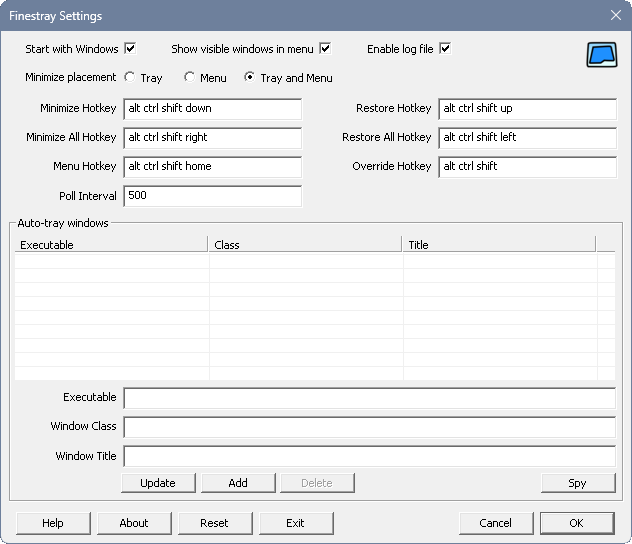
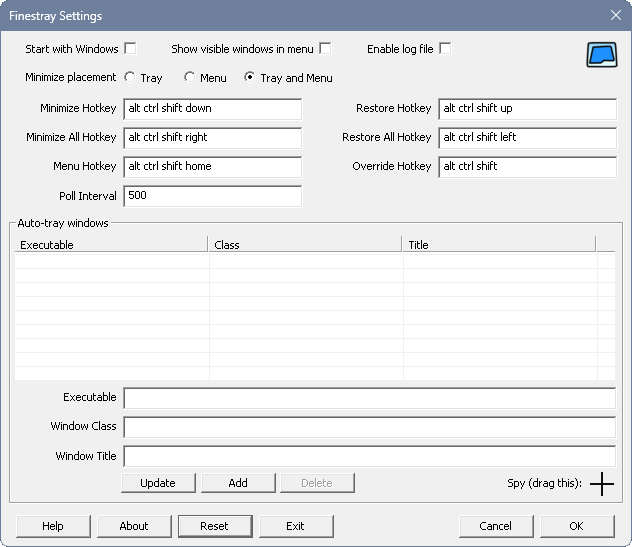
Improve method for spy window selection

diff --git a/src/SettingsDialog.cpp b/src/SettingsDialog.cpp
@@ -57,12 +57,14 @@ int autoTrayListViewCompare(LPARAM, LPARAM, LPARAM);
 void autoTrayListViewItemAdd(HWND dialogHwnd);
 void autoTrayListViewItemUpdate(HWND dialogHwnd, int item);
 void autoTrayListViewItemDelete(HWND dialogHwnd, int item);
-void autoTrayListViewItemSpy(HWND dialogHwnd);
 void autoTrayListViewItemEdit(HWND dialogHwnd, int item);
 void autoTrayListViewUpdateButtons(HWND dialogHwnd);
 void autoTrayListViewUpdateSelected(HWND dialogHwnd);
-void spySelectWindowAtPoint(const POINT & point);
-LRESULT CALLBACK MouseProc(int nCode, WPARAM wParam, LPARAM lParam);
+void spyBegin(HWND dialogHwnd);
+void spyEnd(HWND dialogHwnd);
+void spyEnableIcon(HWND dialogHwnd);
+void spyDisableIcon(HWND dialogHwnd);
+void spyUpdate(HWND dialogHwnd);
 std::string getDialogItemText(HWND dialogHwnd, int id);
 std::string getListViewItemText(HWND listViewHwnd, int item, int subItem);
 
@@ -75,8 +77,6 @@ bool autoTrayListViewSortAscending_;
 int autoTrayListViewSortColumn_;
 #endif
 bool spyMode_;
-HWND spyModeHwnd_;
-HHOOK mouseHhook_;
 
 } // anonymous namespace
 
@@ -110,12 +110,29 @@ INT_PTR settingsDialogFunc(HWND dialogHwnd, UINT message, WPARAM wParam, LPARAM 
     // DEBUG_PRINTF("wnd %#x, message %#x, wparam %#x, lparam %#x\n", dialogHwnd, message, wParam, lParam);
 
     if (spyMode_) {
-        if (message == WM_LBUTTONDOWN) {
-            POINT point;
-            if (!GetCursorPos(&point)) {
-                WARNING_PRINTF("GetCursorPos failed: %s\n", StringUtility::lastErrorString().c_str());
-            } else {
-                spySelectWindowAtPoint(point);
+        switch (message) {
+            case WM_CAPTURECHANGED:
+            case WM_LBUTTONUP: {
+                spyUpdate(dialogHwnd);
+                spyEnd(dialogHwnd);
+                break;
+            }
+
+            case WM_MOUSEMOVE: {
+                spyUpdate(dialogHwnd);
+                break;
+            }
+
+            case WM_SETCURSOR: {
+                HCURSOR hCursor = LoadCursor(NULL, IDC_CROSS);
+                if (!hCursor) {
+                    WARNING_PRINTF("LoadCursor failed: %s\n", StringUtility::lastErrorString().c_str());
+                } else {
+                    if (!SetCursor(hCursor)) {
+                        WARNING_PRINTF("SetCursor failed: %s\n", StringUtility::lastErrorString().c_str());
+                    }
+                }
+                break;
             }
         }
 
@@ -193,6 +210,8 @@ INT_PTR settingsDialogFunc(HWND dialogHwnd, UINT message, WPARAM wParam, LPARAM 
                 WARNING_PRINTF("SetDlgItemTextA failed: %s\n", StringUtility::lastErrorString().c_str());
             }
 
+            spyEnableIcon(dialogHwnd);
+
             autoTrayListViewInit(dialogHwnd);
 
             break;
@@ -258,7 +277,9 @@ INT_PTR settingsDialogFunc(HWND dialogHwnd, UINT message, WPARAM wParam, LPARAM 
                         break;
                     }
                     case IDC_AUTO_TRAY_ITEM_SPY: {
-                        autoTrayListViewItemSpy(dialogHwnd);
+                        if (HIWORD(wParam) == STN_CLICKED) {
+                            spyBegin(dialogHwnd);
+                        }
                         break;
                     }
 
@@ -670,31 +691,6 @@ void autoTrayListViewItemDelete(HWND dialogHwnd, int item)
     autoTrayListViewUpdateSelected(dialogHwnd);
 }
 
-void autoTrayListViewItemSpy(HWND dialogHwnd)
-{
-    DEBUG_PRINTF("Spying auto tray\n");
-
-    if (!ShowWindow(dialogHwnd, SW_HIDE)) {
-        WARNING_PRINTF("ShowWindow failed: %s\n", StringUtility::lastErrorString().c_str());
-    }
-
-    MessageBoxA(
-        dialogHwnd,
-        getResourceString(IDS_SPY_MODE_TEXT).c_str(),
-        getResourceString(IDS_SPY_MODE_TITLE).c_str(),
-        MB_OK);
-
-    mouseHhook_ = SetWindowsHookEx(WH_MOUSE_LL, MouseProc, nullptr, 0);
-    if (!mouseHhook_) {
-        WARNING_PRINTF("Failed to install mouse hook!\n");
-    } else {
-        DEBUG_PRINTF("Mouse hook installed.\n");
-    }
-
-    spyModeHwnd_ = dialogHwnd;
-    spyMode_ = true;
-}
-
 void autoTrayListViewItemEdit(HWND dialogHwnd, int item)
 {
     DEBUG_PRINTF("Editing auto tray item %d\n", item);
@@ -822,76 +818,126 @@ void setListViewSortIcon(HWND listView, int col, int sortOrder)
 }
 #endif
 
-void spySelectWindowAtPoint(const POINT & point)
+void spyBegin(HWND dialogHwnd)
 {
-    DEBUG_PRINTF("Mouse clicked at: %d, %d\n", point.x, point.y);
+    DEBUG_PRINTF("Spy mode: beginning\n");
+
+    spyMode_ = true;
+
+    spyDisableIcon(dialogHwnd);
+
+    SetCapture(dialogHwnd);
+}
+
+void spyEnd(HWND dialogHwnd)
+{
+    DEBUG_PRINTF("Spy mode: ended\n");
+    if (!ReleaseCapture()) {
+        WARNING_PRINTF("ReleaseCapture failed: %s\n", StringUtility::lastErrorString().c_str());
+    }
+
+    spyEnableIcon(dialogHwnd);
+
+    spyMode_ = false;
+}
+
+void spyEnableIcon(HWND dialogHwnd)
+{
+    HCURSOR hCrossCursor = LoadCursor(NULL, IDC_CROSS);
+    if (!hCrossCursor) {
+        WARNING_PRINTF("LoadCursor failed: %s\n", StringUtility::lastErrorString().c_str());
+    } else {
+        if (!SendDlgItemMessage(dialogHwnd, IDC_AUTO_TRAY_ITEM_SPY, STM_SETICON, (WPARAM)hCrossCursor, 0)) {
+            WARNING_PRINTF("SendDlgItemMessage failed: %s\n", StringUtility::lastErrorString().c_str());
+        }
+    }
+}
+
+void spyDisableIcon(HWND dialogHwnd)
+{
+    if (!SendDlgItemMessage(dialogHwnd, IDC_AUTO_TRAY_ITEM_SPY, STM_SETICON, 0, 0)) {
+        WARNING_PRINTF("SendDlgItemMessage failed: %s\n", StringUtility::lastErrorString().c_str());
+    }
+
+    HCURSOR hCursor = LoadCursor(NULL, IDC_CROSS);
+    if (!hCursor) {
+        WARNING_PRINTF("LoadCursor failed: %s\n", StringUtility::lastErrorString().c_str());
+    } else {
+        if (!SetCursor(hCursor)) {
+            WARNING_PRINTF("SetCursor failed: %s\n", StringUtility::lastErrorString().c_str());
+        }
+    }
+}
+
+void spyUpdate(HWND dialogHwnd)
+{
+    POINT point;
+    if (!GetCursorPos(&point)) {
+        WARNING_PRINTF("GetCursorPos failed: %s\n", StringUtility::lastErrorString().c_str());
+        return;
+    }
+
+    DEBUG_PRINTF("Spy mode: selecting window at: %d, %d\n", point.x, point.y);
 
     HWND hwnd = WindowFromPoint(point);
     if (!hwnd) {
         DEBUG_PRINTF("No window found\n");
-    } else {
-        DEBUG_PRINTF("Spy mode: hwnd %#x\n", hwnd);
+        return;
+    }
 
-        HWND rootHwnd = GetAncestor(hwnd, GA_ROOT);
-        if (!rootHwnd) {
-            WARNING_PRINTF("Failed to get root hwnd, falling back to original\n");
-            rootHwnd = hwnd;
+    HWND rootHwnd = GetAncestor(hwnd, GA_ROOT);
+    if (!rootHwnd) {
+        WARNING_PRINTF("Failed to get root hwnd, falling back to original\n");
+        rootHwnd = hwnd;
+    }
+
+    if (rootHwnd == dialogHwnd) {
+        DEBUG_PRINTF("Spy mode: own window, clearing\n");
+        if (!SetDlgItemTextA(dialogHwnd, IDC_AUTO_TRAY_EDIT_EXECUTABLE, nullptr)) {
+            WARNING_PRINTF("SetDlgItemTextA failed: %s\n", StringUtility::lastErrorString().c_str());
         }
+        if (!SetDlgItemTextA(dialogHwnd, IDC_AUTO_TRAY_EDIT_WINDOWCLASS, nullptr)) {
+            WARNING_PRINTF("SetDlgItemTextA failed: %s\n", StringUtility::lastErrorString().c_str());
+        }
+        if (!SetDlgItemTextA(dialogHwnd, IDC_AUTO_TRAY_EDIT_WINDOWTITLE, nullptr)) {
+            WARNING_PRINTF("SetDlgItemTextA failed: %s\n", StringUtility::lastErrorString().c_str());
+        }
+        return;
+    }
 
-        CHAR executableFullPath[MAX_PATH] = {};
-        DWORD processID;
-        if (!GetWindowThreadProcessId(rootHwnd, &processID)) {
-            WARNING_PRINTF("GetWindowThreadProcessId() failed: %s\n", StringUtility::lastErrorString().c_str());
+    DEBUG_PRINTF("Spy mode: root hwnd %#x\n", rootHwnd);
+
+    CHAR executableFullPath[MAX_PATH] = {};
+    DWORD processID;
+    if (!GetWindowThreadProcessId(rootHwnd, &processID)) {
+        WARNING_PRINTF("GetWindowThreadProcessId() failed: %s\n", StringUtility::lastErrorString().c_str());
+    } else {
+        HandleWrapper process(OpenProcess(PROCESS_QUERY_INFORMATION | PROCESS_VM_READ, FALSE, processID));
+        if (!process) {
+            WARNING_PRINTF("OpenProcess() failed: %s\n", StringUtility::lastErrorString().c_str());
         } else {
-            HandleWrapper process(OpenProcess(PROCESS_QUERY_INFORMATION | PROCESS_VM_READ, FALSE, processID));
-            if (!process) {
-                WARNING_PRINTF("OpenProcess() failed: %s\n", StringUtility::lastErrorString().c_str());
-            } else {
-                if (!GetModuleFileNameExA((HMODULE)(HANDLE)process, nullptr, executableFullPath, MAX_PATH)) {
-                    WARNING_PRINTF("GetModuleFileNameA() failed: %s\n", StringUtility::lastErrorString().c_str());
-                }
+            if (!GetModuleFileNameExA((HMODULE)(HANDLE)process, nullptr, executableFullPath, MAX_PATH)) {
+                WARNING_PRINTF("GetModuleFileNameA() failed: %s\n", StringUtility::lastErrorString().c_str());
             }
         }
-        DEBUG_PRINTF("Executable full path: '%s'\n", executableFullPath);
-
-        std::string className = getWindowClassName(rootHwnd);
-        DEBUG_PRINTF("Class name: '%s'\n", className.c_str());
-
-        std::string title = getWindowText(rootHwnd);
-        DEBUG_PRINTF("Title: '%s'\n", title.c_str());
-
-        if (!SetDlgItemTextA(spyModeHwnd_, IDC_AUTO_TRAY_EDIT_EXECUTABLE, executableFullPath)) {
-            WARNING_PRINTF("SetDlgItemTextA failed: %s\n", StringUtility::lastErrorString().c_str());
-        }
-        if (!SetDlgItemTextA(spyModeHwnd_, IDC_AUTO_TRAY_EDIT_WINDOWCLASS, className.c_str())) {
-            WARNING_PRINTF("SetDlgItemTextA failed: %s\n", StringUtility::lastErrorString().c_str());
-        }
-        if (!SetDlgItemTextA(spyModeHwnd_, IDC_AUTO_TRAY_EDIT_WINDOWTITLE, title.c_str())) {
-            WARNING_PRINTF("SetDlgItemTextA failed: %s\n", StringUtility::lastErrorString().c_str());
-        }
-
-        if (!ShowWindow(spyModeHwnd_, SW_SHOW)) {
-            WARNING_PRINTF("ShowWindow failed: %s\n", StringUtility::lastErrorString().c_str());
-        }
-        if (!SetForegroundWindow(spyModeHwnd_)) {
-            WARNING_PRINTF("SetForegroundWindow failed: %s\n", StringUtility::lastErrorString().c_str());
-        }
-
-        spyModeHwnd_ = nullptr;
-        spyMode_ = false;
     }
-}
+    DEBUG_PRINTF("Executable full path: '%s'\n", executableFullPath);
 
-LRESULT CALLBACK MouseProc(int nCode, WPARAM wParam, LPARAM lParam)
-{
-    if ((nCode == HC_ACTION) && (wParam == WM_LBUTTONDOWN)) {
-        UnhookWindowsHookEx(mouseHhook_);
+    std::string className = getWindowClassName(rootHwnd);
+    DEBUG_PRINTF("Class name: '%s'\n", className.c_str());
 
-        LPMSLLHOOKSTRUCT mouseInfo = (LPMSLLHOOKSTRUCT)lParam;
-        spySelectWindowAtPoint(mouseInfo->pt);
+    std::string title = getWindowText(rootHwnd);
+    DEBUG_PRINTF("Title: '%s'\n", title.c_str());
+
+    if (!SetDlgItemTextA(dialogHwnd, IDC_AUTO_TRAY_EDIT_EXECUTABLE, executableFullPath)) {
+        WARNING_PRINTF("SetDlgItemTextA failed: %s\n", StringUtility::lastErrorString().c_str());
     }
-
-    return CallNextHookEx(mouseHhook_, nCode, wParam, lParam);
+    if (!SetDlgItemTextA(dialogHwnd, IDC_AUTO_TRAY_EDIT_WINDOWCLASS, className.c_str())) {
+        WARNING_PRINTF("SetDlgItemTextA failed: %s\n", StringUtility::lastErrorString().c_str());
+    }
+    if (!SetDlgItemTextA(dialogHwnd, IDC_AUTO_TRAY_EDIT_WINDOWTITLE, title.c_str())) {
+        WARNING_PRINTF("SetDlgItemTextA failed: %s\n", StringUtility::lastErrorString().c_str());
+    }
 }
 
 std::string getDialogItemText(HWND dialogHwnd, int id)

diff --git a/src/Resource.h b/src/Resource.h
@@ -30,8 +30,6 @@
 #define IDS_COLUMN_EXECUTABLE                     222
 #define IDS_COLUMN_WINDOW_CLASS                   223
 #define IDS_COLUMN_WINDOW_TITLE                   224
-#define IDS_SPY_MODE_TITLE                        225
-#define IDS_SPY_MODE_TEXT                         226
 
 // error strings
 #define IDS_ERROR_INIT_COM                        301

diff --git a/README.md b/README.md
@@ -213,12 +213,13 @@ window will minimize the standard way instead of to the tray.
 ### Spy feature
 
 If you don't know the executable, class, or title of a window, or just would like help filling those values, you can use
-the Spy feature. To use it, first open the [Settings](#settings) window, then press the "Spy" button. This will close
-the Settings window, then show you a message explaining that Spy mode is active, and that you can click on any window to
-select it. Press the "OK" button of that message, and then click on the window you want to obtain the executable, class,
-and title of. Once you have done that, the Settings window should re-appear, and those values should be filled in. You
-can modify them if you like, or leave them alone, and then press the Add button to create a new Auto-tray item for that
-window.
+the Spy feature. To use it, first open the [Settings](#settings) window, find the crosshair icon next to the text that
+says "Spy (drag this):", and use your mouse to drag that icon onto the window that you want to obtain the executable,
+class, and title of. As you drag the crosshair around, the settings window should be updated with information about each
+window you move it over, and when you release the mouse button then the crosshair icon will return to its original
+position, and the values in the settings should stay filled in with whatever window you last dragged on top of. You can
+modify the values if you like, or leave them alone, and then press the Add button to create a new Auto-tray item for
+that window.
 
 If the Spy feature doesn't work for you, alternatively you can use another tool like
 [Window Spy](https://amourspirit.github.io/AutoHotkey-Snippit/WindowSpy.html) or

diff --git a/TODO.md b/TODO.md
@@ -2,7 +2,6 @@
 
 - Get windows error reporting (WER) working
 - Add tray icon promotion (avoid moving to notification area overflow menu)
-- Improve method for spy window selection
 - Investigate VirusTotal results for installer
 - Add auto-tray option: when created, when minimized, both
 - Add option to make tray icons persistent even when window is restored
